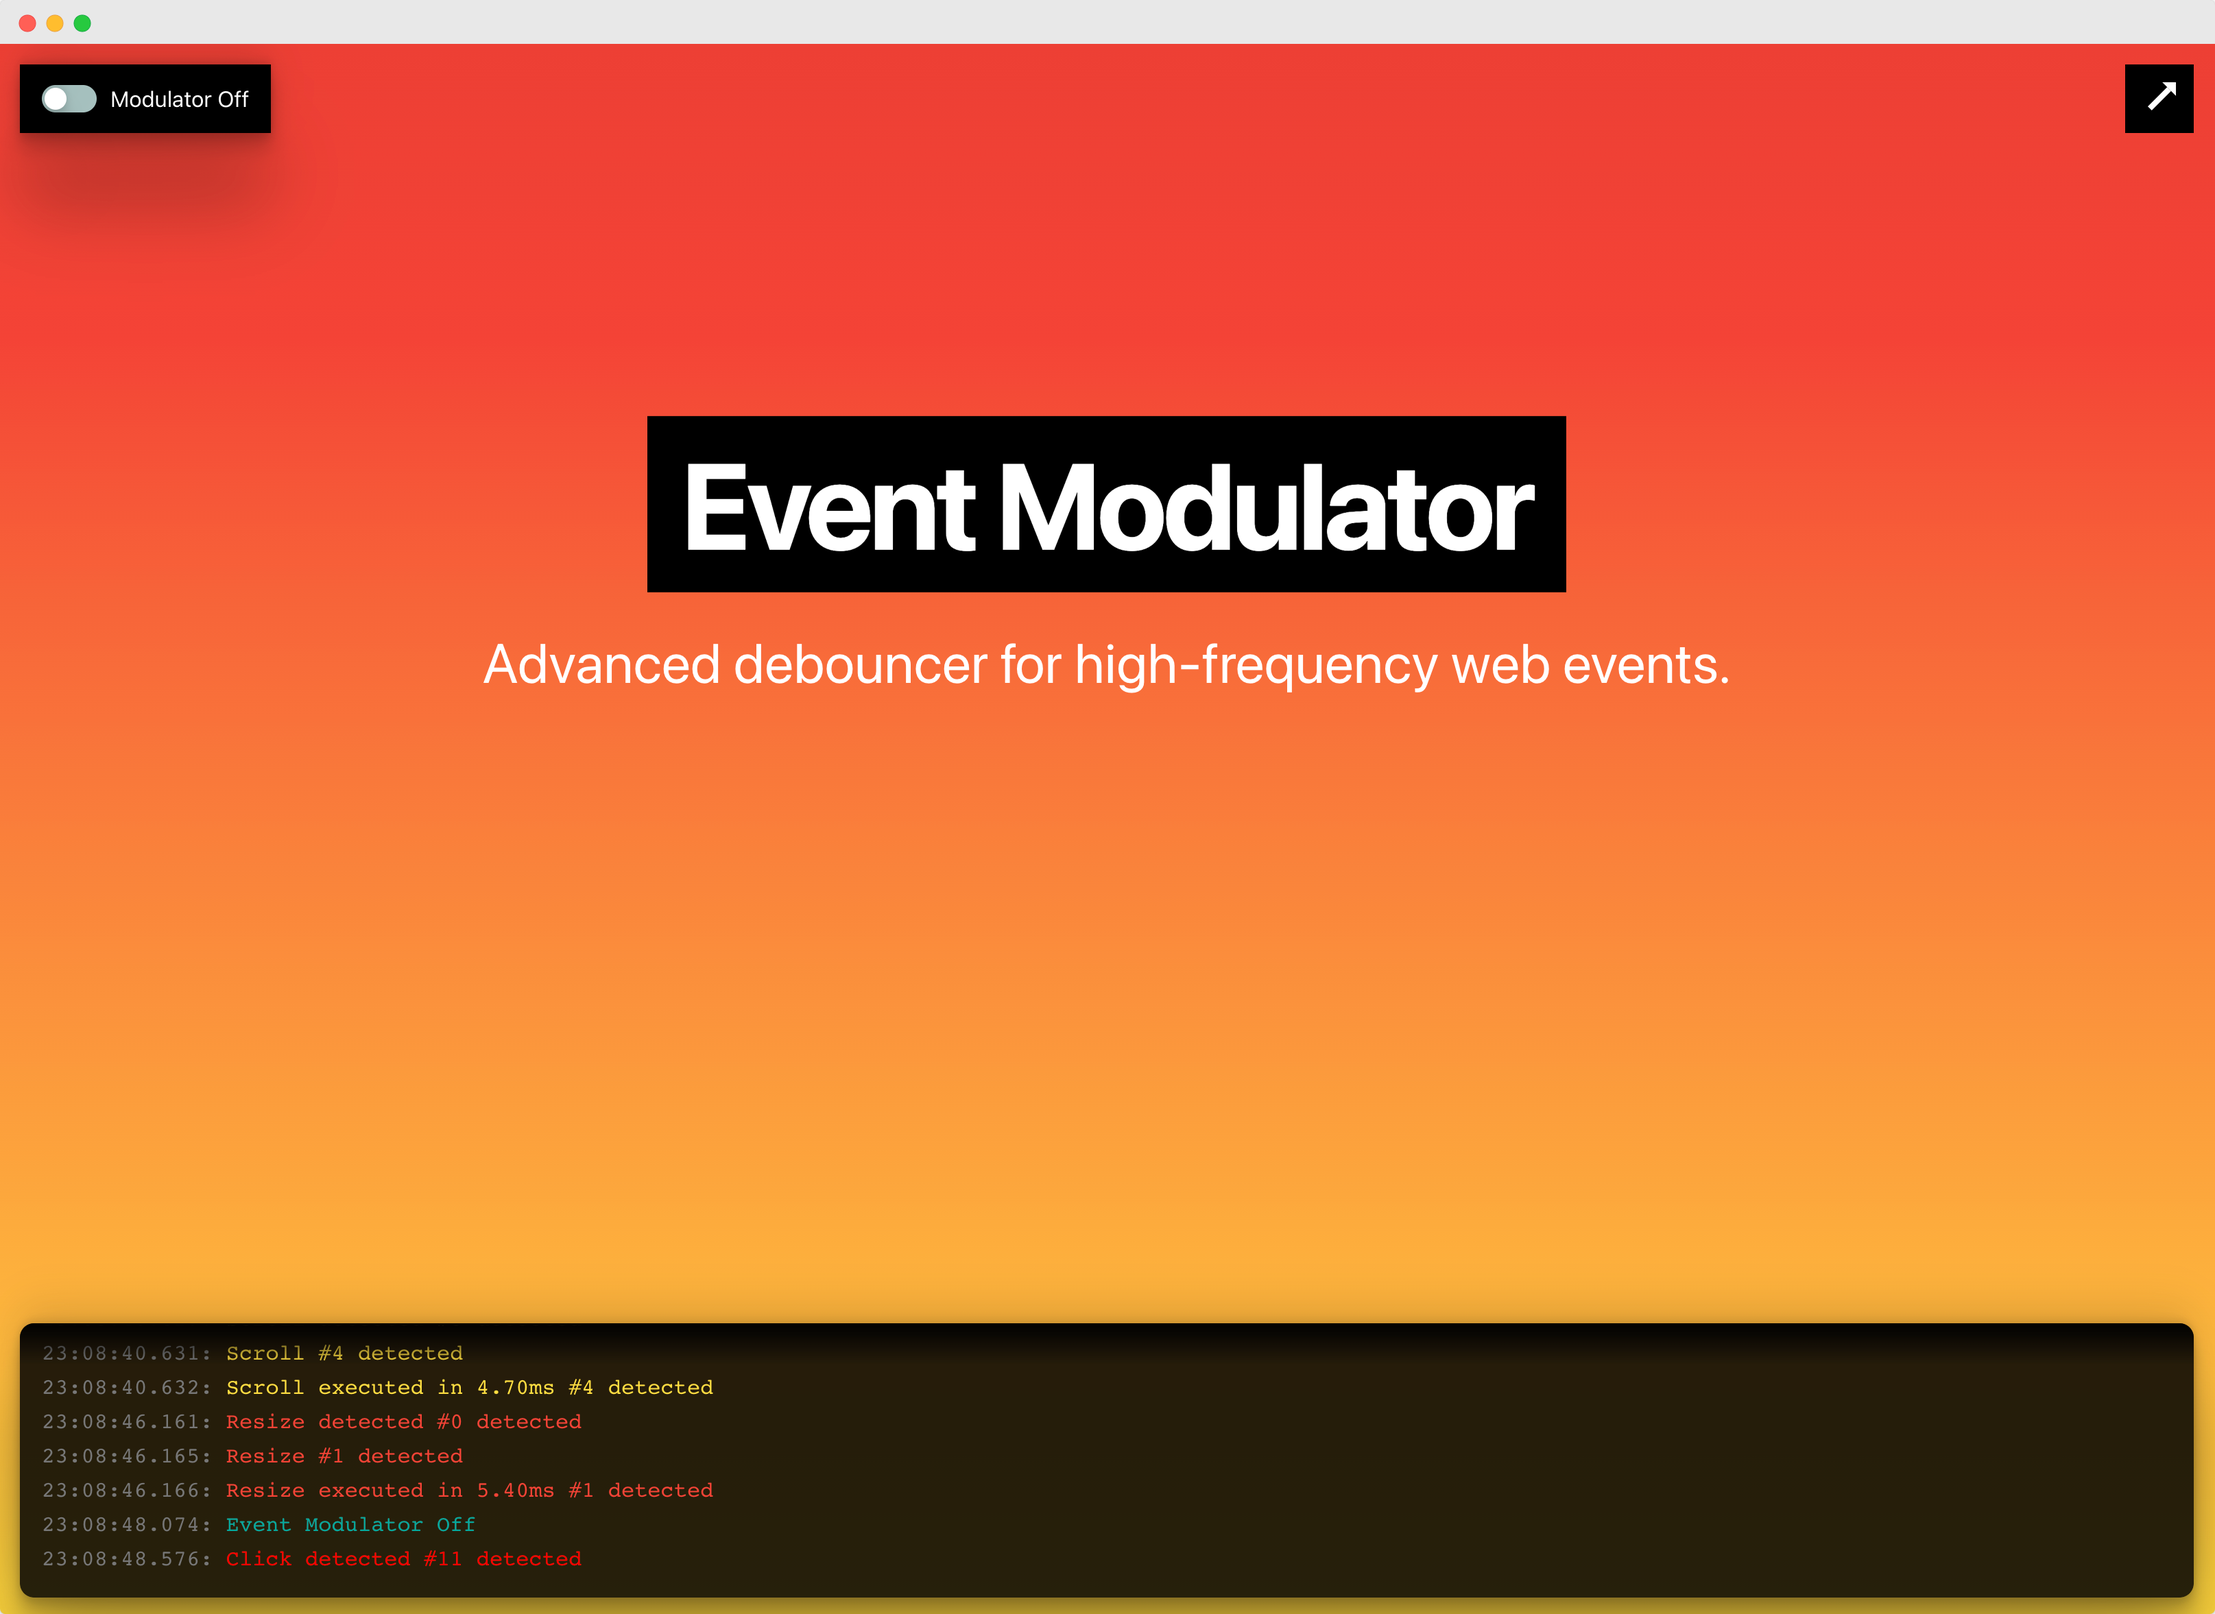
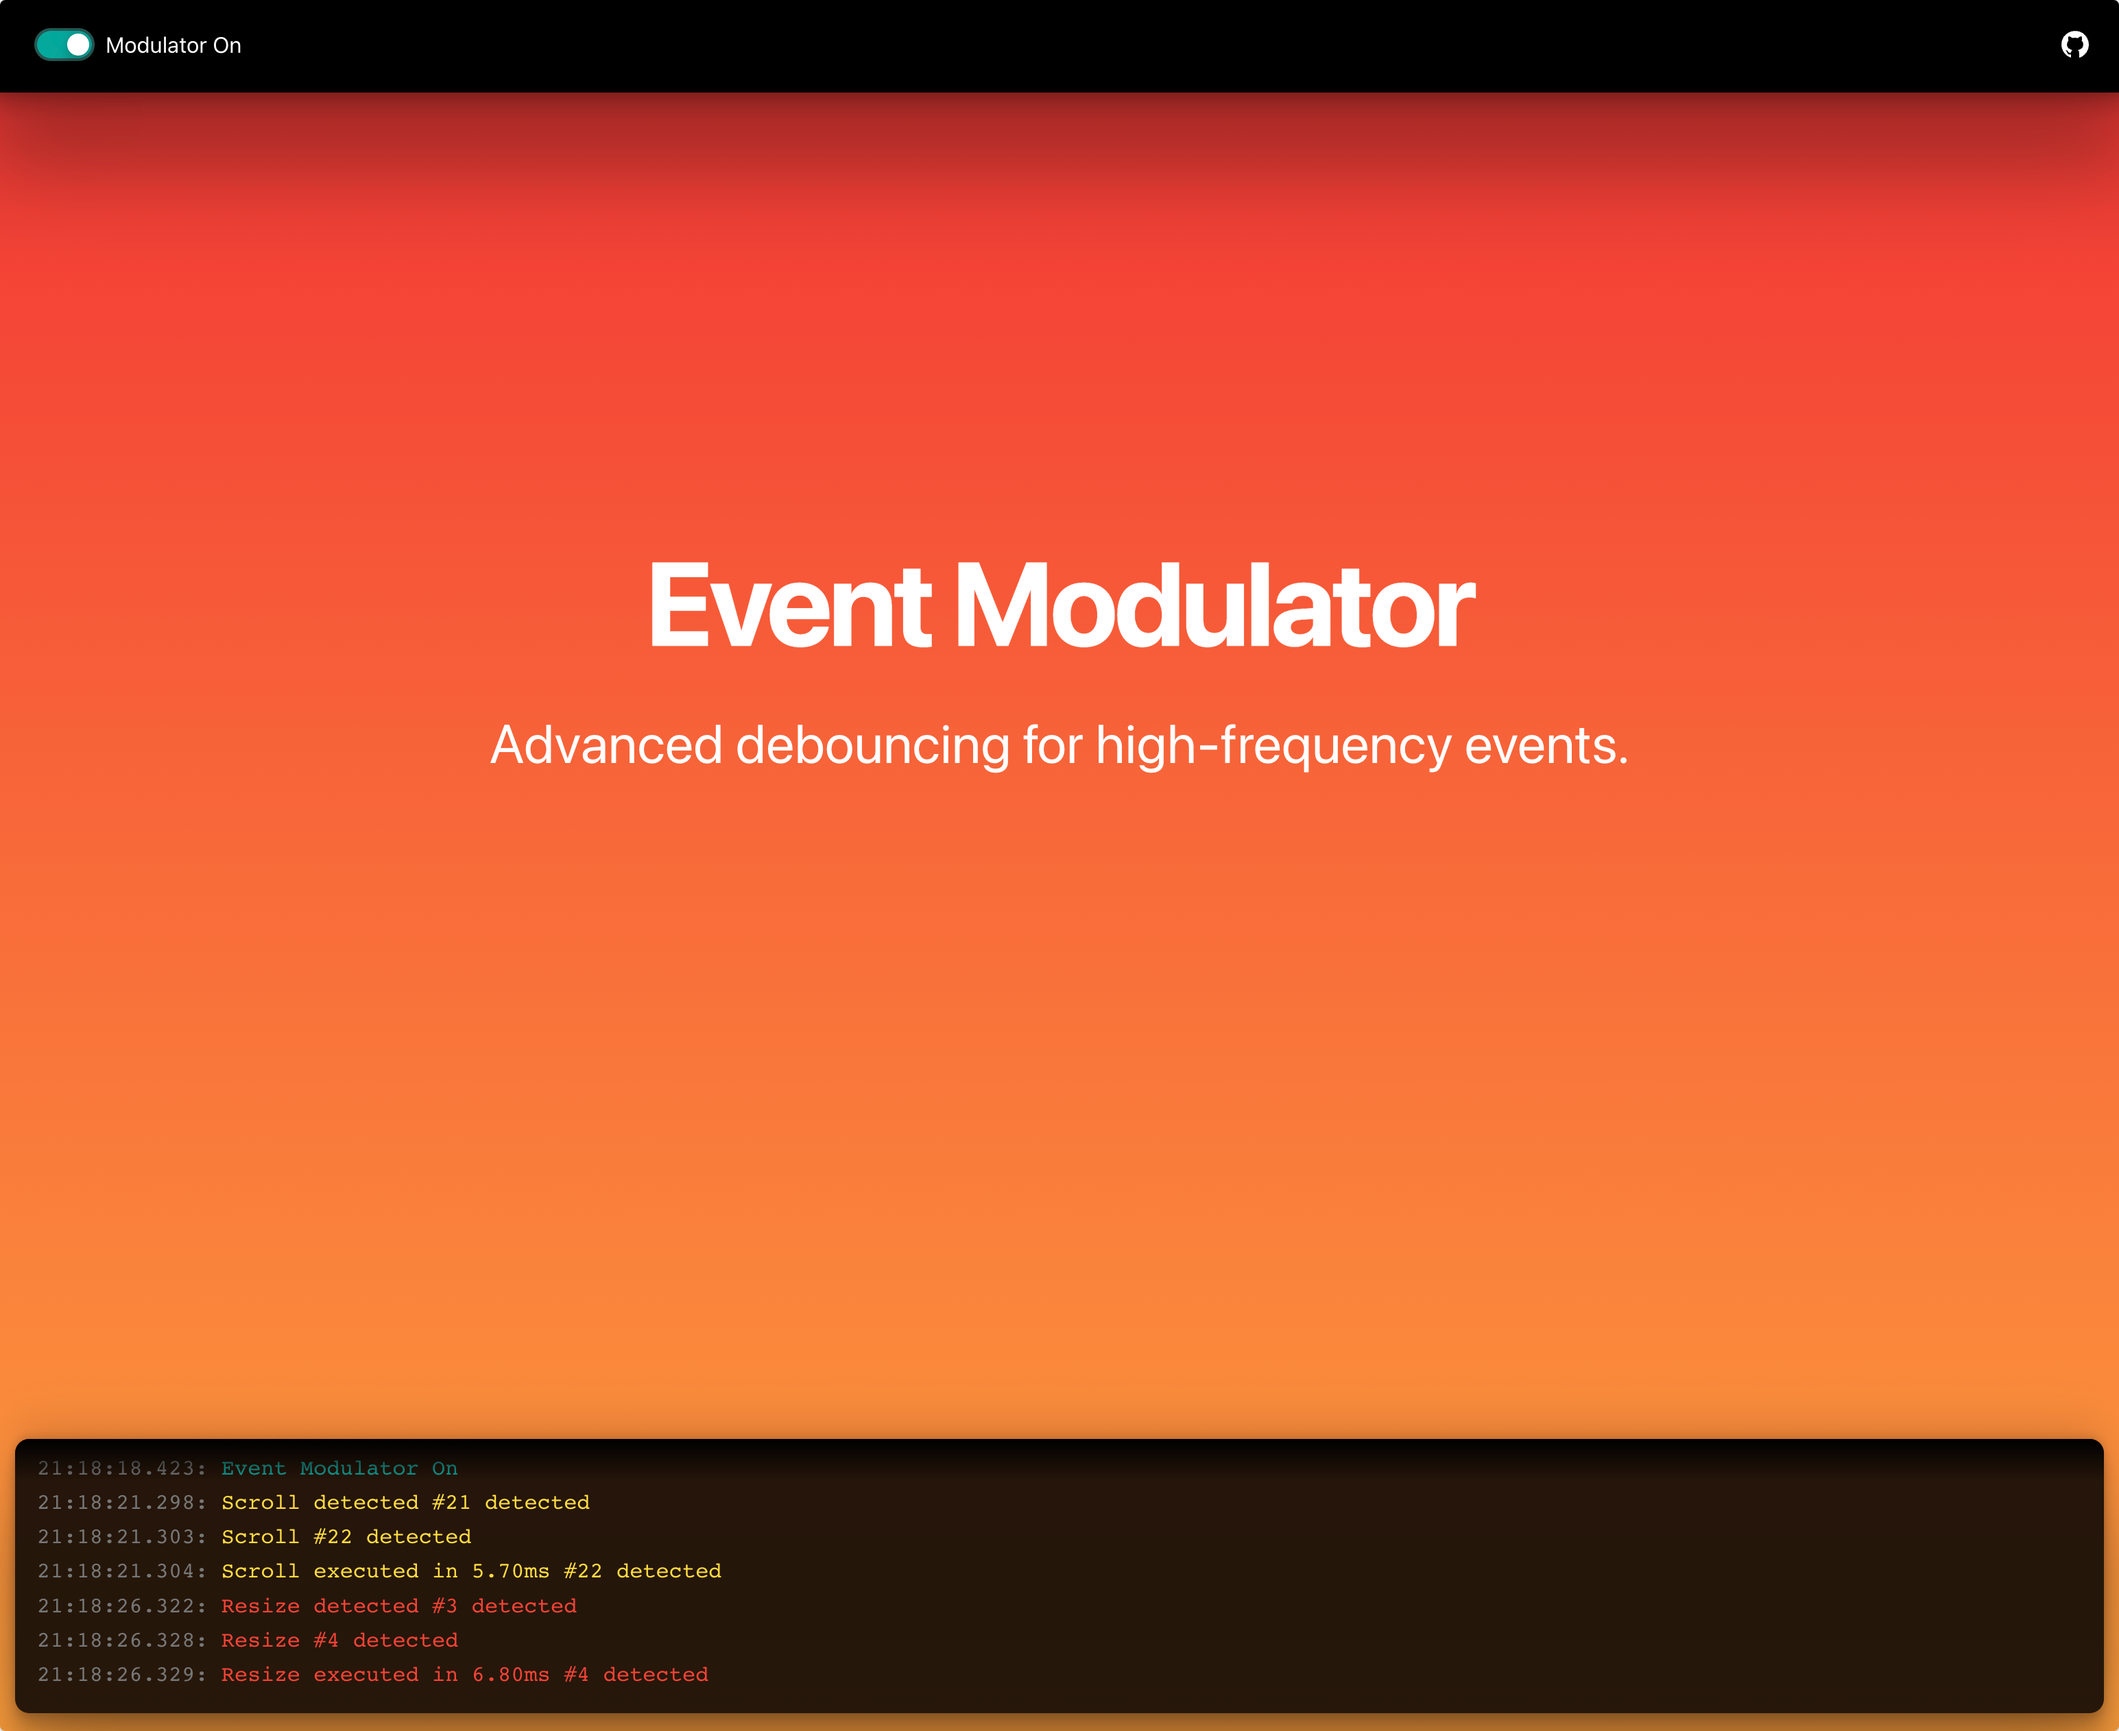
docs

diff --git a/docs/assets/js/app.js b/docs/assets/js/app.js
@@ -239,44 +239,44 @@ const modulatedScrollListener = modulate(() => {
   scrollDebounceExecuting = false;
 }, modulatorDelay);
 
-let clickCounter = 0;
-let clickDebounceExecuting = false;
-let clickListener = () => {
-  clickCounter++;
-  logEvent(`Click`, 1000, clickCounter, "click");
-};
+// let clickCounter = 0;
+// let clickDebounceExecuting = false;
+// let clickListener = () => {
+//   clickCounter++;
+//   logEvent(`Click`, 1000, clickCounter, "click");
+// };
 
-const modulatedClickListener = modulate(() => {
-  if (clickDebounceExecuting) {
-    return;
-  }
-  clickDebounceExecuting = true;
-  const startTime = performance.now();
-  logEvent(`Click detected`, 0, clickCounter, "click");
-  clickListener();
-  const endTime = performance.now();
-  const duration = endTime - startTime;
-  logEvent(
-    `Click executed in ${duration.toFixed(2)}ms`,
-    0,
-    clickCounter,
-    "click"
-  );
-  clickDebounceExecuting = false;
-}, modulatorDelay);
+// const modulatedClickListener = modulate(() => {
+//   if (clickDebounceExecuting) {
+//     return;
+//   }
+//   clickDebounceExecuting = true;
+//   const startTime = performance.now();
+//   logEvent(`Click detected`, 0, clickCounter, "click");
+//   clickListener();
+//   const endTime = performance.now();
+//   const duration = endTime - startTime;
+//   logEvent(
+//     `Click executed in ${duration.toFixed(2)}ms`,
+//     0,
+//     clickCounter,
+//     "click"
+//   );
+//   clickDebounceExecuting = false;
+// }, modulatorDelay);
 
 function removeEventListeners() {
   window.removeEventListener("resize", modulatedResizeListener);
   window.removeEventListener("scroll", modulatedScrollListener);
-  window.removeEventListener("click", modulatedClickListener);
+  // window.removeEventListener("click", modulatedClickListener);
 
   window.removeEventListener("resize", resizeListener);
   window.removeEventListener("scroll", scrollListener);
-  window.removeEventListener("click", clickListener);
+  // window.removeEventListener("click", clickListener);
 
   isResizing = 0;
   isScrolling = 0;
-  isClicking = 0;
+  // isClicking = 0;
 }
 
 const toggleSwitch = document.getElementById("toggleDebounce");
@@ -288,13 +288,13 @@ toggleSwitch.addEventListener("change", (event) => {
   if (event.target.checked) {
     window.addEventListener("resize", modulatedResizeListener);
     window.addEventListener("scroll", modulatedScrollListener);
-    window.addEventListener("click", modulatedClickListener);
+    // window.addEventListener("click", modulatedClickListener);
     srHidden.textContent = "Modulator On";
     logEvent(`Event Modulator On`, 0, null, "announce");
   } else {
     window.addEventListener("resize", resizeListener);
     window.addEventListener("scroll", scrollListener);
-    window.addEventListener("click", clickListener);
+    // window.addEventListener("click", clickListener);
     srHidden.textContent = "Modulator Off";
     logEvent(`Event Modulator Off`, 0, null, "announce");
   }

diff --git a/docs/index.html b/docs/index.html
@@ -31,6 +31,7 @@ description: Event Modulator is an improved debounce function for JavaScript
 
 <div class="pre-wrapper">
 <pre id="output">
-Resize window, click, or scroll to start the test.
+Resize the window or scroll to see logs
+Toggle the switch to see debounced events
 </pre>
 </div>
